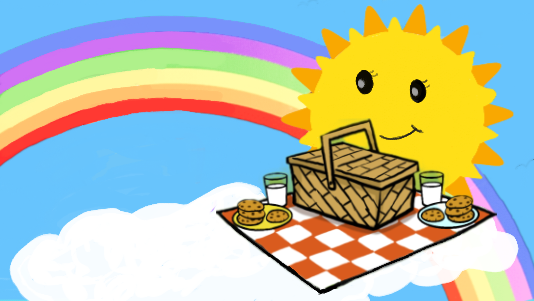
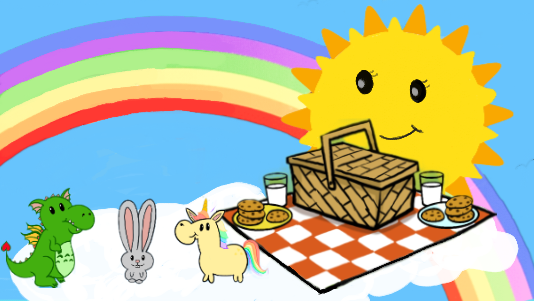
Fix Unicorn and Dragon Paths.

Changed region(s): [[0.2097, 0.6578, 0.5094, 0.9568], [0.0, 0.6279, 0.1798, 0.9568]]

diff --git a/src/index.html b/src/index.html
@@ -79,7 +79,7 @@
       <div class="scrolling">
       <h6><strong>Catch!!!
         Do you want to go on another adventure? 
-        <span class='pop-out' id='end12'>Start Over</span></strong></h6>
+        <span class='pop-out' id='end10'>Start Over</span></strong></h6>
       </div>
     </div>  
 

diff --git a/src/css/styles.css b/src/css/styles.css
@@ -428,10 +428,6 @@ color:rgb(237, 19, 168);
   display: none;
 }
 
-#sunUnicornPicnic{
-  display: none;
-}
-
 #sunPoxyPicnic{
   display: none;
 }
@@ -439,3 +435,8 @@ color:rgb(237, 19, 168);
 #sunDragonPicnic{
   display: none;
 }
+
+#sunUnicornPicnic{
+  display: none;
+}
+
